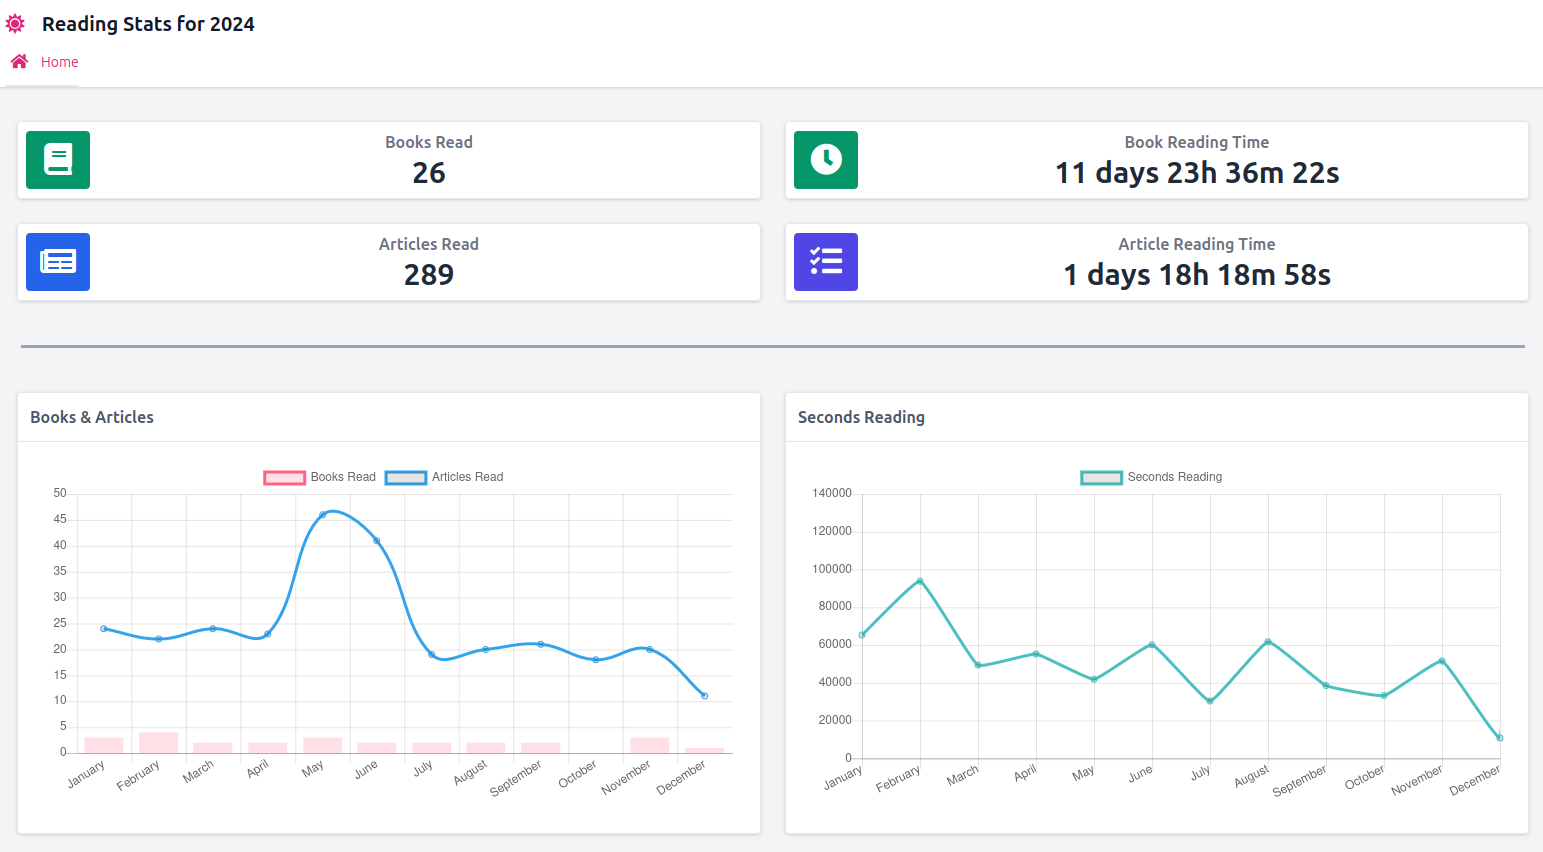
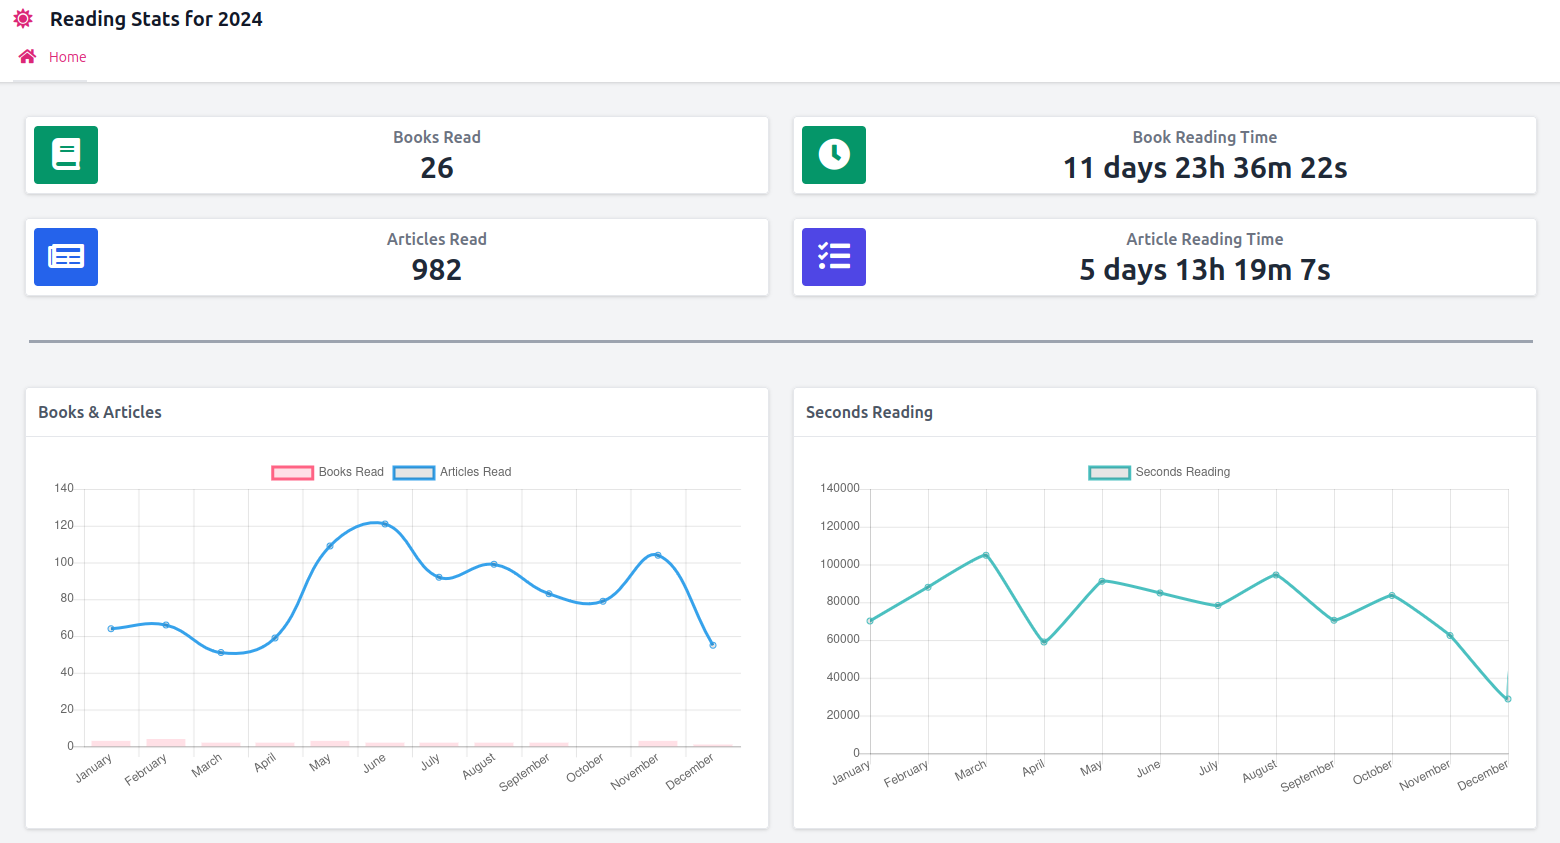
cmd/goals Add --showsessions to the goals command
- Also fixed identifying finished/read pocket articles
- Added code to guess reading duration for pocket articles if it was not
  stored or could not be read from the Blob

diff --git a/cmd/goals.go b/cmd/goals.go
@@ -4,7 +4,9 @@ import (
 	"flag"
 	"fmt"
 	"io"
+	"math"
 	"os"
+	"strings"
 	"time"
 
 	"github.com/snabb/isoweek"
@@ -15,8 +17,9 @@ func Goals(out io.Writer) int {
 	const ()
 
 	var (
-		storageFn string
-		year      int
+		storageFn    string
+		year         int
+		showSessions bool
 	)
 
 	flag.StringVar(&storageFn, "storage", defaultStorage, usageStoragePath)
@@ -24,6 +27,8 @@ func Goals(out io.Writer) int {
 
 	flag.IntVar(&year, "year", defaultYear, usageYear)
 	flag.IntVar(&year, "y", defaultYear, usageYear)
+
+	flag.BoolVar(&showSessions, "showsessions", false, usageShowSessions)
 
 	flag.Usage = func() {
 		fmt.Fprintf(out, "Usage of %s %s:\n", os.Args[0], os.Args[1])
@@ -75,6 +80,16 @@ func Goals(out io.Writer) int {
 			weekBooksRead, pkg.SecondsToHoursString(weekBookSeconds),
 			weekArticleRead, pkg.SecondsToHoursString(weekArticleSeconds))
 
+		if showSessions {
+			fmt.Println("|    |Monday|Tuesda|Wednes|Thursd|Friday|Saturd|Sunday|        |")
+
+			for idx := 0; idx < 24; idx++ {
+				fmt.Println(readsInWeekToTableLine(stats, weekStartTime, idx))
+			}
+
+			fmt.Println("")
+		}
+
 		if weekStartTime.Unix() > time.Now().Unix() {
 			break
 		}
@@ -99,4 +114,68 @@ func calculateAverage(list []float32) float32 {
 	}
 
 	return total / float32(len(list))
+}
+
+// readsInWeekToTableLine takes the week stats and looks for reading sessions in hour
+// returns a string to match the table with 6 characters per (hour) e.g |0800|------|      | (indicating read on Mon not Tues)
+func readsInWeekToTableLine(stats pkg.Stats, weekStart time.Time, hour int) string {
+	var secs int
+
+	line := fmt.Sprintf("|%02d00|      |      |      |      |      |      |      |", hour)
+	year, week := weekStart.ISOWeek()
+	totalSeconds := 0
+
+	for idx := range stats.Years[year].Weeks[week].Books {
+		for jdx := range stats.Years[year].Weeks[week].Books[idx].Reads {
+			line, secs = bookReadToLineUpdate(line, stats.Years[year].Weeks[week].Books[idx].Reads[jdx], year, week, hour)
+			totalSeconds += secs
+		}
+	}
+
+	for idx := range stats.Years[year].Weeks[week].Articles {
+		for jdx := range stats.Years[year].Weeks[week].Articles[idx].Reads {
+			line, secs = bookReadToLineUpdate(line, stats.Years[year].Weeks[week].Articles[idx].Reads[jdx], year, week, hour)
+			totalSeconds += secs
+		}
+	}
+
+	totalDuration := time.Duration(totalSeconds) * time.Second
+
+	return line + fmt.Sprintf("%8s|", totalDuration.String())
+}
+
+func bookReadToLineUpdate(line string, read pkg.StatsRead, year, week, hour int) (string, int) {
+	const readSymbol = "-"
+
+	// Offsets in the line for the day of the week
+	offsets := map[time.Weekday]int{
+		1: 7 - 1, // Monday is day 1 and starts on character 7
+		2: 7*2 - 1,
+		3: 7*3 - 1,
+		4: 7*4 - 1,
+		5: 7*5 - 1,
+		6: 7*6 - 1,
+		0: 7*7 - 1, // Sunday is day 0 (from time.Time WeekDay()) but rightmost on the line
+	}
+
+	readTime, _ := time.Parse(pkg.StorageTimeFmt, read.Time)
+	readYear, readWeek := readTime.ISOWeek()
+	secs := 0
+
+	if year == readYear && week == readWeek && hour == readTime.Hour() {
+		startMinute := min(max(readTime.Minute()/10, 0), 6)
+		startOffset := offsets[readTime.Weekday()] + startMinute
+
+		count := int(math.Ceil(float64(read.Duration) / 600))
+
+		for startMinute+count > 6 {
+			count -= 1
+		}
+
+		line = line[0:startOffset] + strings.Repeat(readSymbol, count) + line[startOffset+count:]
+
+		secs = min(read.Duration, 3600)
+	}
+
+	return line, secs
 }

diff --git a/pkg/sync.go b/pkg/sync.go
@@ -1,6 +1,12 @@
 package pkg
 
+import (
+	"time"
+)
+
 func Sync(db KoboDatabase, storage Storage) error {
+	const readingSpeedWPM = 180 / 60 // reading speed words-per-minute (in seconds) to guess reading time by word count (should be ~200)
+
 	contents, err := db.Contents()
 	if err != nil {
 		return err
@@ -31,7 +37,8 @@ func Sync(db KoboDatabase, storage Storage) error {
 
 	for cIdx := range contents {
 		storage.AddContent(contents[cIdx].ID, contents[cIdx].Title, contents[cIdx].Author,
-			contents[cIdx].URL, contents[cIdx].TotalWords(), contents[cIdx].IsBook, contents[cIdx].Finished)
+			contents[cIdx].URL, contents[cIdx].TotalWords(), contents[cIdx].IsBook,
+			contents[cIdx].Finished, contents[cIdx].ProgressPercent)
 	}
 
 	for sIdx := range shelf {
@@ -49,6 +56,30 @@ func Sync(db KoboDatabase, storage Storage) error {
 	}
 
 	for eIdx := range events {
+		if events[eIdx].EventType == GuessReadEvent {
+			// Guess Read Events (for pocket articles that are finished but do not have reading seconds)
+			startUnix := int(events[eIdx].Time.Unix())
+
+			secondsRead := 0
+			for cIdx := range contents {
+				if contents[cIdx].ID == events[eIdx].BookID {
+					secondsRead = contents[cIdx].TotalWords() / readingSpeedWPM
+
+					break
+				}
+			}
+
+			events[eIdx].EventType = ReadEvent
+			events[eIdx].ReadingSessions = []KoboEventReadingSession{
+				{
+					UnixStart: startUnix,
+					UnixEnd:   startUnix + secondsRead,
+					Start:     time.Unix(int64(startUnix), 0),
+					End:       time.Unix(int64(startUnix+secondsRead), 0),
+				},
+			}
+		}
+
 		if events[eIdx].EventType == ReadEvent {
 			for sIdx := range events[eIdx].ReadingSessions {
 				durationSecs := events[eIdx].ReadingSessions[sIdx].UnixEnd - events[eIdx].ReadingSessions[sIdx].UnixStart

diff --git a/cmd/goals_test.go b/cmd/goals_test.go
@@ -1,0 +1,73 @@
+package cmd
+
+import (
+	"fmt"
+	"testing"
+	"time"
+
+	"github.com/snabb/isoweek"
+	"github.com/timchurchard/kobo-readstat/pkg"
+)
+
+func Test_readsInWeekToTableLine(t *testing.T) {
+	type args struct {
+		stats     pkg.Stats
+		weekStart time.Time
+		hour      int
+	}
+
+	exampleStats := pkg.Stats{
+		Years: map[int]pkg.YearStats{
+			2000: {
+				Months: nil,
+				Weeks: map[int]pkg.MonthStats{
+					3: {
+						FinishedBooks:    nil,
+						FinishedArticles: nil,
+						Books: map[string]*pkg.StatsBook{
+							"A": {
+								Reads: []pkg.StatsRead{
+									{Time: "2000-01-17T15:04:05.000", Duration: 555},
+									{Time: "2000-01-18T15:14:05.000", Duration: 666},
+									{Time: "2000-01-19T15:24:05.000", Duration: 1234},
+									{Time: "2000-01-20T15:34:05.000", Duration: 1234},
+									{Time: "2000-01-21T15:44:05.000", Duration: 1234},
+									{Time: "2000-01-22T15:54:05.000", Duration: 1234},
+									{Time: "2000-01-23T15:04:05.000", Duration: 6666},
+								},
+							},
+						},
+						Articles: nil,
+					},
+				},
+			},
+		},
+		Content: nil,
+	}
+
+	tests := []struct {
+		name string
+		args args
+		want string
+	}{
+		{
+			name: "2000 week 3 should mark ",
+			args: args{
+				stats:     exampleStats,
+				weekStart: isoweek.StartTime(2000, 3, time.UTC),
+				hour:      15,
+			},
+			want: "|1500|-     | --   |  --- |   ---|    --|     -|------|2h42m37s|",
+		},
+	}
+	for _, tt := range tests {
+		t.Run(tt.name, func(t *testing.T) {
+			got := readsInWeekToTableLine(tt.args.stats, tt.args.weekStart, tt.args.hour)
+			fmt.Printf("%s\n%s\n", got, tt.want)
+
+			if got != tt.want {
+				t.Errorf("readsInWeekToTableLine() = %v, want %v", got, tt.want)
+			}
+		})
+	}
+}

diff --git a/pkg/kobo-db.go b/pkg/kobo-db.go
@@ -288,8 +288,12 @@ func (k koboDatabase) Events() ([]KoboEvent, error) {
 								End:       time.Unix(int64(startUnix+secondsRead), 0),
 							},
 						}
-						result = append(result, KoboEvent{BookID: fn, EventType: ReadEvent, Time: time.Time{}, ReadingSessions: sessions})
+						result = append(result, KoboEvent{BookID: fn, EventType: ReadEvent, Time: lastTime, ReadingSessions: sessions})
 					}
+				} else {
+					// Else the Blob did not include reading time. It seems a software update has removed that
+					// Fallback using the content read percent = 100 and words
+					result = append(result, KoboEvent{BookID: fn, EventType: GuessReadEvent, Time: lastTime})
 				}
 			}
 
@@ -374,7 +378,10 @@ func readBlobColumn(stmt *sqlite3.Stmt, i int) (map[string]interface{}, error) {
 
 		switch {
 		case err.Error() == "unimplemented type 44":
-			return hacksType44(colData)
+			o, err := hacksType44(colData)
+			if o != nil {
+				return o, err
+			}
 
 		case err.Error() == "unimplemented type 20":
 			/*cID := stmt.ColumnText(4)

diff --git a/pkg/storage.go b/pkg/storage.go
@@ -10,7 +10,7 @@ import (
 type Storage interface {
 	Save() error
 
-	AddContent(fn, title, author, url string, words int, book, finished bool)
+	AddContent(fn, title, author, url string, words int, book, finished bool, percent int)
 	AddDevice(device, model string)
 	AddEvent(fn, device, name string, t time.Time, duration int)
 
@@ -132,10 +132,15 @@ func (s *JSONStorage) Save() error {
 	return os.WriteFile(s.fn, storageBytes, 0o644)
 }
 
-func (s *JSONStorage) AddContent(fn, title, author, url string, words int, book, finished bool) {
+func (s *JSONStorage) AddContent(fn, title, author, url string, words int, book, finished bool, percent int) {
 	previouslyFinished := false
 	if _, ok := s.ContentMap[fn]; ok {
 		previouslyFinished = s.ContentMap[fn].IsFinished
+	}
+
+	if !book && percent == 100 {
+		// Pocket articles work around where finished column is false but progress is 100%
+		finished = true
 	}
 
 	s.ContentMap[fn] = StorageContent{

diff --git a/pkg/sync_test.go b/pkg/sync_test.go
@@ -117,7 +117,7 @@ func TestSync(t *testing.T) {
 		db.EXPECT().Bookmarks().Return(aaaBookmarks, nil)
 
 		storage := NewMockStorage(ctrl)
-		storage.EXPECT().AddContent("aaa", "Title AAA", "Author AAA", "aaa.com", 1234, true, false)
+		storage.EXPECT().AddContent("aaa", "Title AAA", "Author AAA", "aaa.com", 1234, true, false, 69)
 		storage.EXPECT().AddEvent("aaa", "xxx", "Read", time.Time{}, 1111)
 		storage.EXPECT().AddDevice("xxx", "yyy")
 		storage.EXPECT().AddShelf("AAA", "BBB", "CCC", "DDD", false)

diff --git a/cmd/stats.go b/cmd/stats.go
@@ -20,7 +20,6 @@ func Stats(out io.Writer) int {
 		usageShowBooks     = "Show book title and details"
 		usageShowArticles  = "Show pocket article title and details"
 		usageHideArticles  = "Hide pocket articles even time spent"
-		usageShowSessions  = "Show reading sessions"
 		usageShowBookEnds  = "Show book started and finished reading"
 		usageShowBookmarks = "Show book annotations, notes and highlights"
 	)

diff --git a/pkg/kobo-blob-hacks.go b/pkg/kobo-blob-hacks.go
@@ -30,7 +30,11 @@ func hacksType44(data []byte) (map[string]interface{}, error) {
 				extraDataReadingSeconds: v / 100000, // hardcoded 100000 division to seconds
 			}, nil
 		}
+
+		return map[string]interface{}{
+			"ContentType": pocketMime,
+		}, nil
 	}
 
-	return map[string]interface{}{}, nil
+	return nil, nil
 }

diff --git a/pkg/kobo-event.go b/pkg/kobo-event.go
@@ -33,6 +33,7 @@ const (
 	KoboTimeFmt = "2006-01-02T15:04:05.000"
 	// koboTimeSample = "2023-12-19T11:42:00.000"
 
+	GuessReadEvent  KoboEventType = "GuessRead"
 	ReadEvent       KoboEventType = "Read"
 	Progress25Event KoboEventType = "25%"
 	Progress50Event KoboEventType = "50%"

diff --git a/cmd/const.go b/cmd/const.go
@@ -11,6 +11,8 @@ const (
 	usageDatabasePath = "Path to /media/kobo/.kobo/KoboReader.sqlite"
 
 	usageYear = "Year to generate stats for (default this year)"
+
+	usageShowSessions = "Show reading sessions"
 )
 
 var defaultYear int
